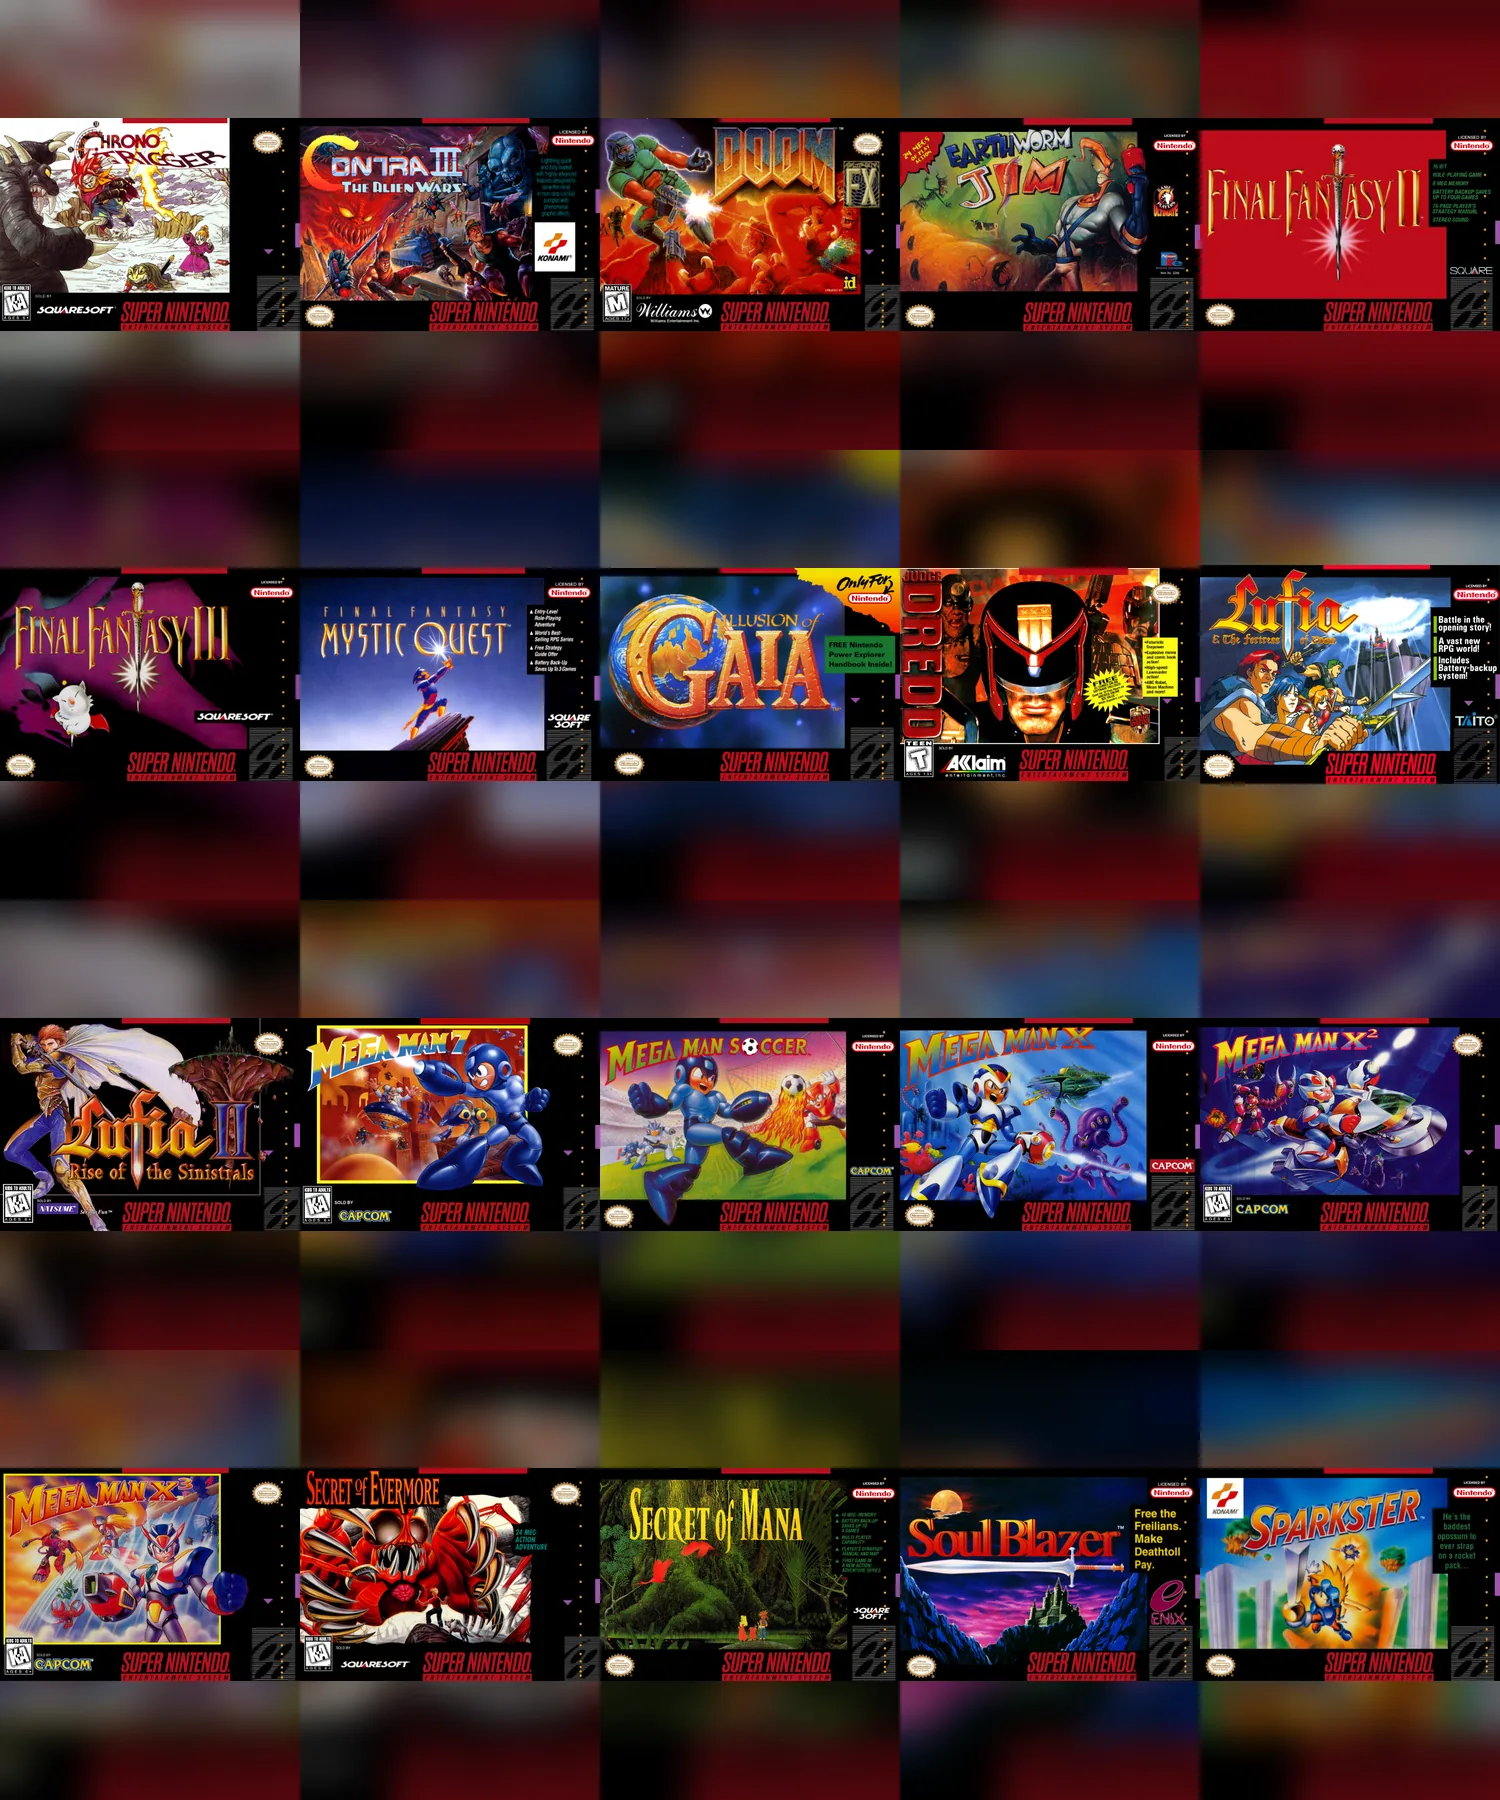
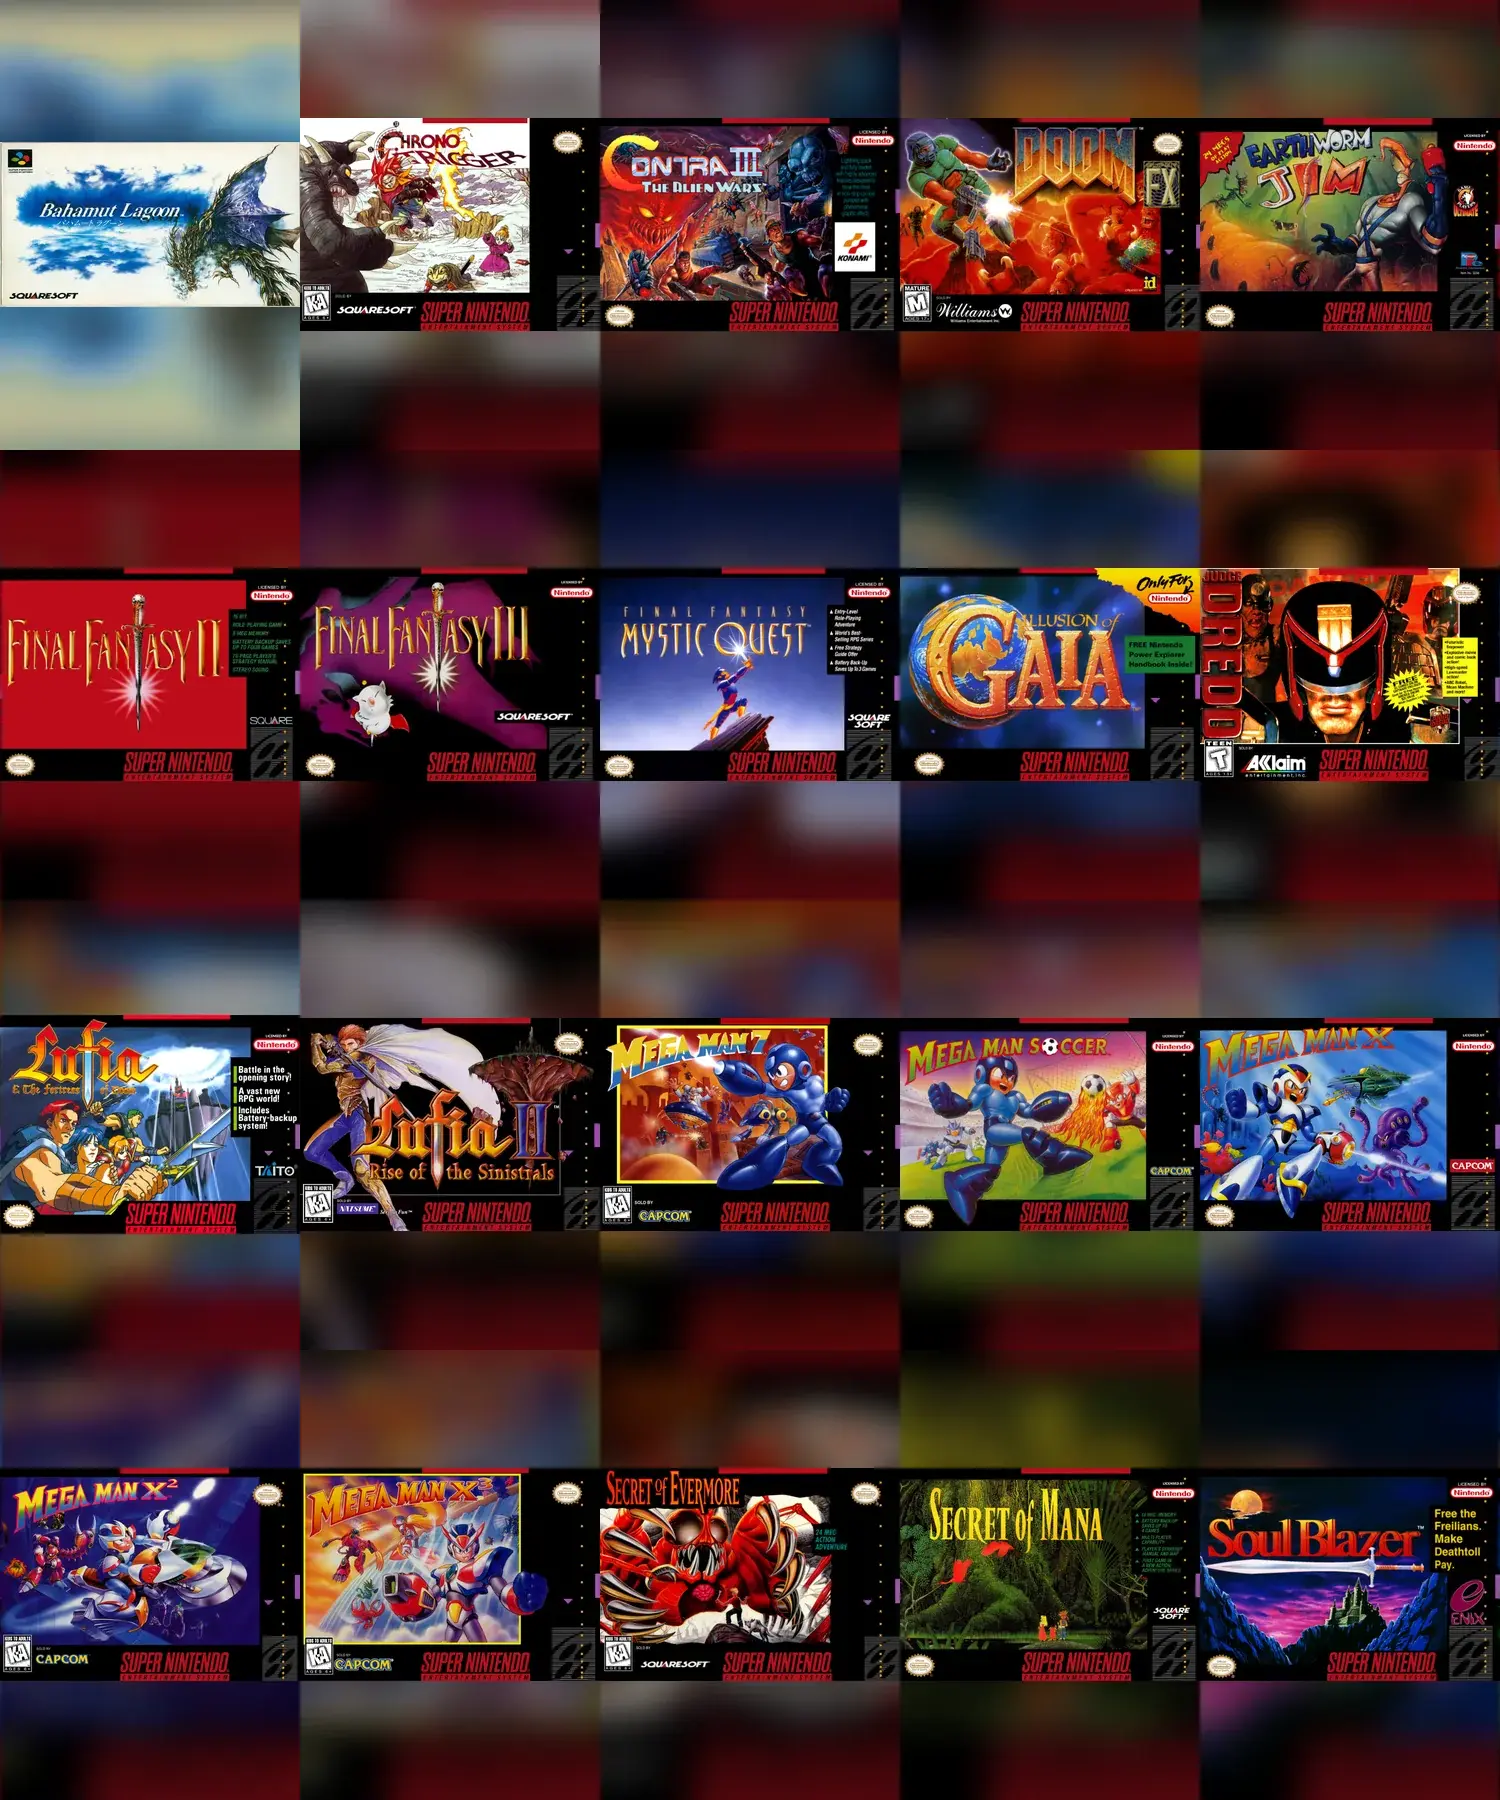
Add Bahamut Lagoon and normalize Xbox tab

diff --git a/app.js b/app.js
@@ -343,6 +343,7 @@
     "The Legend of Zelda: A Link to the Past": Object.freeze({ genre: "Action Adventure", description: "Link journeys between Hyrule and the Dark World to rescue Zelda and defeat the wizard Agahnim and Ganon." }),
     "Secret of Mana": Object.freeze({ genre: "Action RPG", description: "A young hero pulls the Mana Sword and joins allies on a quest to restore its power and stop an empire." }),
     "Secret of Evermore": Object.freeze({ genre: "Action RPG", description: "A boy and his dog are transported to the strange world of Evermore and search for a way home." }),
+    "Bahamut Lagoon": Object.freeze({ genre: "Tactical RPG", description: "Byuu leads the Dragon Squad across the floating lands of Orelus to resist the invading Granbelos Empire." }),
   });
 
   const SWITCH_GENRES = Object.freeze({
@@ -578,7 +579,7 @@
       const slot = Number(slotText);
       const column = slot % 5;
       const row = Math.floor(slot / 5);
-      const versionedAtlasUrl = `${atlasUrl}${atlasUrl.includes("?") ? "&" : "?"}v=1.0.26`;
+      const versionedAtlasUrl = `${atlasUrl}${atlasUrl.includes("?") ? "&" : "?"}v=1.0.27`;
       const sprite = document.createElement("div");
       sprite.className = "game-cover console-cover hybrid-cover hybrid-sprite-cover portrait-art";
       sprite.setAttribute("role", "img");

diff --git a/index.html b/index.html
@@ -10,15 +10,15 @@
     <meta name="theme-color" content="#050706" />
     <title>ThyToxicGamer Game Library</title>
     <link rel="stylesheet" href="styles.css?v=1.0.22" />
-    <link rel="stylesheet" href="dashboard.css?v=1.0.35" />
+    <link rel="stylesheet" href="dashboard.css?v=1.0.36" />
     <link rel="stylesheet" href="request-test.css?v=1.0.22" />
     <script src="https://cdn.jsdelivr.net/npm/@supabase/supabase-js@2" defer></script>
     <script src="supabase-config.js?v=1.0.22" defer></script>
     <script src="nintendo-classics.js?v=1.0.45" defer></script>
     <script src="hybrid-covers.js?v=1.0.67" defer></script>
     <script src="ps5-covers.js?v=1.0.35" defer></script>
-    <script src="games.js?v=1.0.43" defer></script>
-    <script src="app.js?v=1.0.29" defer></script>
+    <script src="games.js?v=1.0.44" defer></script>
+    <script src="app.js?v=1.0.30" defer></script>
     <script src="dashboard.js?v=1.0.29" defer></script>
     <script src="request-test.js?v=1.0.22" defer></script>
   </head>

diff --git a/dashboard.css b/dashboard.css
@@ -305,9 +305,6 @@ main {
 .platform-tab[data-platform="snes"]::before { content: "✚"; }
 .platform-tab[data-platform="xbox"] {
   --tab-accent: var(--xbox-accent);
-  border-color: #155a2c;
-  background: linear-gradient(180deg, #0b3b1d, #061b0e);
-  color: #effff3;
 }
 .platform-tab[data-platform="xbox"]::before { content: "◉"; }
 .platform-tab[data-platform="updates"] { --tab-accent: #ffb000; }
@@ -366,12 +363,6 @@ main {
 .platform-tab[data-platform="nes"].active::before,
 .platform-tab[data-platform="nes"].active .tab-count {
   color: #080908;
-}
-
-.platform-tab[data-platform="xbox"].active {
-  border-color: #1ca94a;
-  background: linear-gradient(180deg, #125b2c, #082a15);
-  box-shadow: inset 0 0 34px rgba(28,169,74,0.13), 0 0 16px rgba(13,122,47,0.1);
 }
 
 .platform-subtabs[data-platform="switch"] {

diff --git a/games.js b/games.js
@@ -253,6 +253,7 @@ const ps4Rows = [
 ];
 
 const snesRows = [
+  ["Bahamut Lagoon", "https://www.gamingalexandria.com/highquality/sfc/Bahamut%20Lagoon/Bahamut%20Lagoon%20-%20Box%20Front.jpg", "Tactical RPG"],
   ["Breath of Fire", "https://raw.githubusercontent.com/libretro-thumbnails/Nintendo_-_Super_Nintendo_Entertainment_System/master/Named_Boxarts/Breath%20of%20Fire%20(USA).png"],
   ["Breath of Fire II", "https://raw.githubusercontent.com/libretro-thumbnails/Nintendo_-_Super_Nintendo_Entertainment_System/master/Named_Boxarts/Breath%20of%20Fire%20II%20(USA).png"],
   ["Chrono Trigger", "assets/covers/snes/chrono-trigger.webp"],
